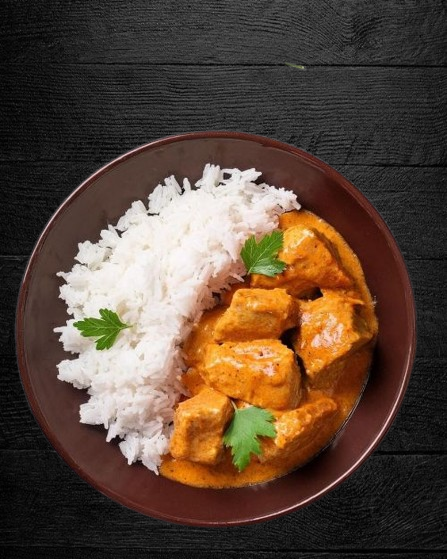
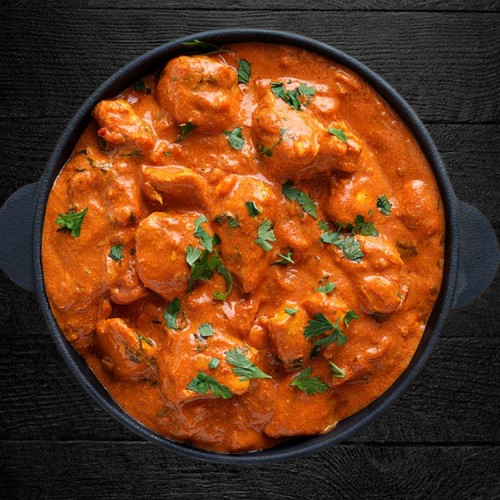
finished all the cards and changed the background now i will finish the responisive and also add functionality to the filtering btns with js

diff --git a/HTML/menu.html b/HTML/menu.html
@@ -419,7 +419,7 @@
             </div>
 
             <div class="card-box">
-                <img src="../photos/Menu/Aperol Spritz.png" alt="mozzarella-sticks" class="card-img">
+                <img src="../photos/Menu/AperolSpritz.png" alt="mozzarella-sticks" class="card-img">
                 <div class="card-body">
                     <h5 class="card-title">Aperol Spritz </h5>
                     <p class="card-text">A vibrant Aperol Spritz in a tall glass with ice and an orange slice, sparkling with condensation, placed on a sunlit terrace table, capturing a lively Italian summer atmosphere.</p>
@@ -435,24 +435,24 @@
             <div class="card-box">
                 <img src="../photos/Menu/Italian Red Wine.png" alt="Mushroom-soup" class="card-img">
                 <div class="card-body">
-                    <h5 class="card-title"> Italian Red Wine </h5>
+                    <h5 class="card-title">Barolo </h5>
                     <p class="card-text">A glass of rich Italian red wine, deep ruby color, with subtle reflections, set on a rustic wooden table with a blurred vineyard in the background, evoking an authentic Italian wine experience</p>
                 </div>
             </div>
 
             <div class="card-box">
-                <img src="../photos/Menu/Zeppole.png" alt="Caprese Salad" class="card-img">
+                <img src="../photos/Menu/SanPellegrino.png" alt="Caprese Salad" class="card-img">
                 <div class="card-body">
-                    <h5 class="card-title">Zeppole</h5>
-                    <p class="card-text">Golden, fluffy Italian zeppole dusted with powdered sugar, served on a rustic plate, soft natural light, traditional Italian pastry presentation.</p>
+                    <h5 class="card-title">San Pellegrino Limonata</h5>
+                    <p class="card-text">Chilled can of San Pellegrino Limonata with bright lemon accents, condensation droplets, fresh.</p>
                 </div>
             </div>
 
             <div class="card-box">
-                <img src="../photos/Menu/creme brulee.png" alt="mozzarella-sticks" class="card-img">
+                <img src="../photos/Menu/Pinot Grigio.png" alt="mozzarella-sticks" class="card-img">
                 <div class="card-body">
-                    <h5 class="card-title">Creme Brulee</h5>
-                    <p class="card-text">Classic crème brûlée with a caramelized golden sugar top, creamy custard beneath, served in a ramekin with soft natural lighting, elegant dessert presentation</p>
+                    <h5 class="card-title">Pinot Grigio</h5>
+                    <p class="card-text">Elegant glass of Pinot Grigio with pale straw color, crisp and refreshing, served beside fresh green grapes,.</p>
                 </div>
             </div>
 
@@ -463,26 +463,26 @@
         <div class="card-grid">
 
             <div class="card-box">
-                <img src="../photos/Menu/Apple strudel with ice cream.png" alt="Mushroom-soup" class="card-img">
+                <img src="../photos/Menu/Bellini.png" alt="Mushroom-soup" class="card-img">
                 <div class="card-body">
-                    <h5 class="card-title">Apple strudel with ice cream</h5>
-                    <p class="card-text">Warm apple strudel with flaky golden pastry, cinnamon apples spilling out, served with a scoop of vanilla ice cream, soft natural lighting, cozy dessert presentation.</p>
+                    <h5 class="card-title">Raspberry Bellini</h5>
+                    <p class="card-text">Vibrant Raspberry Bellini in a tall flute, made with fresh raspberry purée and sparkling wine, rich pink color and elegant presentation.</p>
                 </div>
             </div>
 
             <div class="card-box">
-                <img src="../photos/Menu/Zeppole.png" alt="Caprese Salad" class="card-img">
+                <img src="../photos/Menu/Sgroppino.png" alt="Caprese Salad" class="card-img">
                 <div class="card-body">
-                    <h5 class="card-title">Zeppole</h5>
-                    <p class="card-text">Golden, fluffy Italian zeppole dusted with powdered sugar, served on a rustic plate, soft natural light, traditional Italian pastry presentation.</p>
+                    <h5 class="card-title">Sgroppino</h5>
+                    <p class="card-text">Sgroppino served in a chilled glass, creamy lemon sorbet mixed with vodka and sparkling wine. A light froth forms on top, inviting and refreshing.</p>
                 </div>
             </div>
 
             <div class="card-box">
-                <img src="../photos/Menu/creme brulee.png" alt="mozzarella-sticks" class="card-img">
+                <img src="../photos/Menu/Cioccolata Calda.png" alt="mozzarella-sticks" class="card-img">
                 <div class="card-body">
-                    <h5 class="card-title">Creme Brulee</h5>
-                    <p class="card-text">Classic crème brûlée with a caramelized golden sugar top, creamy custard beneath, served in a ramekin with soft natural lighting, elegant dessert presentation</p>
+                    <h5 class="card-title">Cioccolata Calda</h5>
+                    <p class="card-text">Thick and creamy Italian hot chocolate served in a small cup, rich dark chocolate swirled with steam rising gently. Topped with a dollop of whipped cream and a light sprinkle of cocoa powder.</p>
                 </div>
             </div>
 

diff --git a/CSS/menu.css b/CSS/menu.css
@@ -1,7 +1,8 @@
-
 body {
-  margin: 0;
-   background-color: #070505;
+    margin: 0;
+  background-color: #000000;
+  background-image: url('https://www.transparenttextures.com/patterns/cubes.png');
+  background-repeat: repeat;
 }
 
 .menu-buttons {
@@ -64,6 +65,8 @@ body {
   background-color: white;
   color: black;
   border-color: #180101;
+  border: 3px solid white;
+  box-shadow: 0 10px 20px rgba(255, 255, 255, 0.2);
 }
 
 .card-img {
